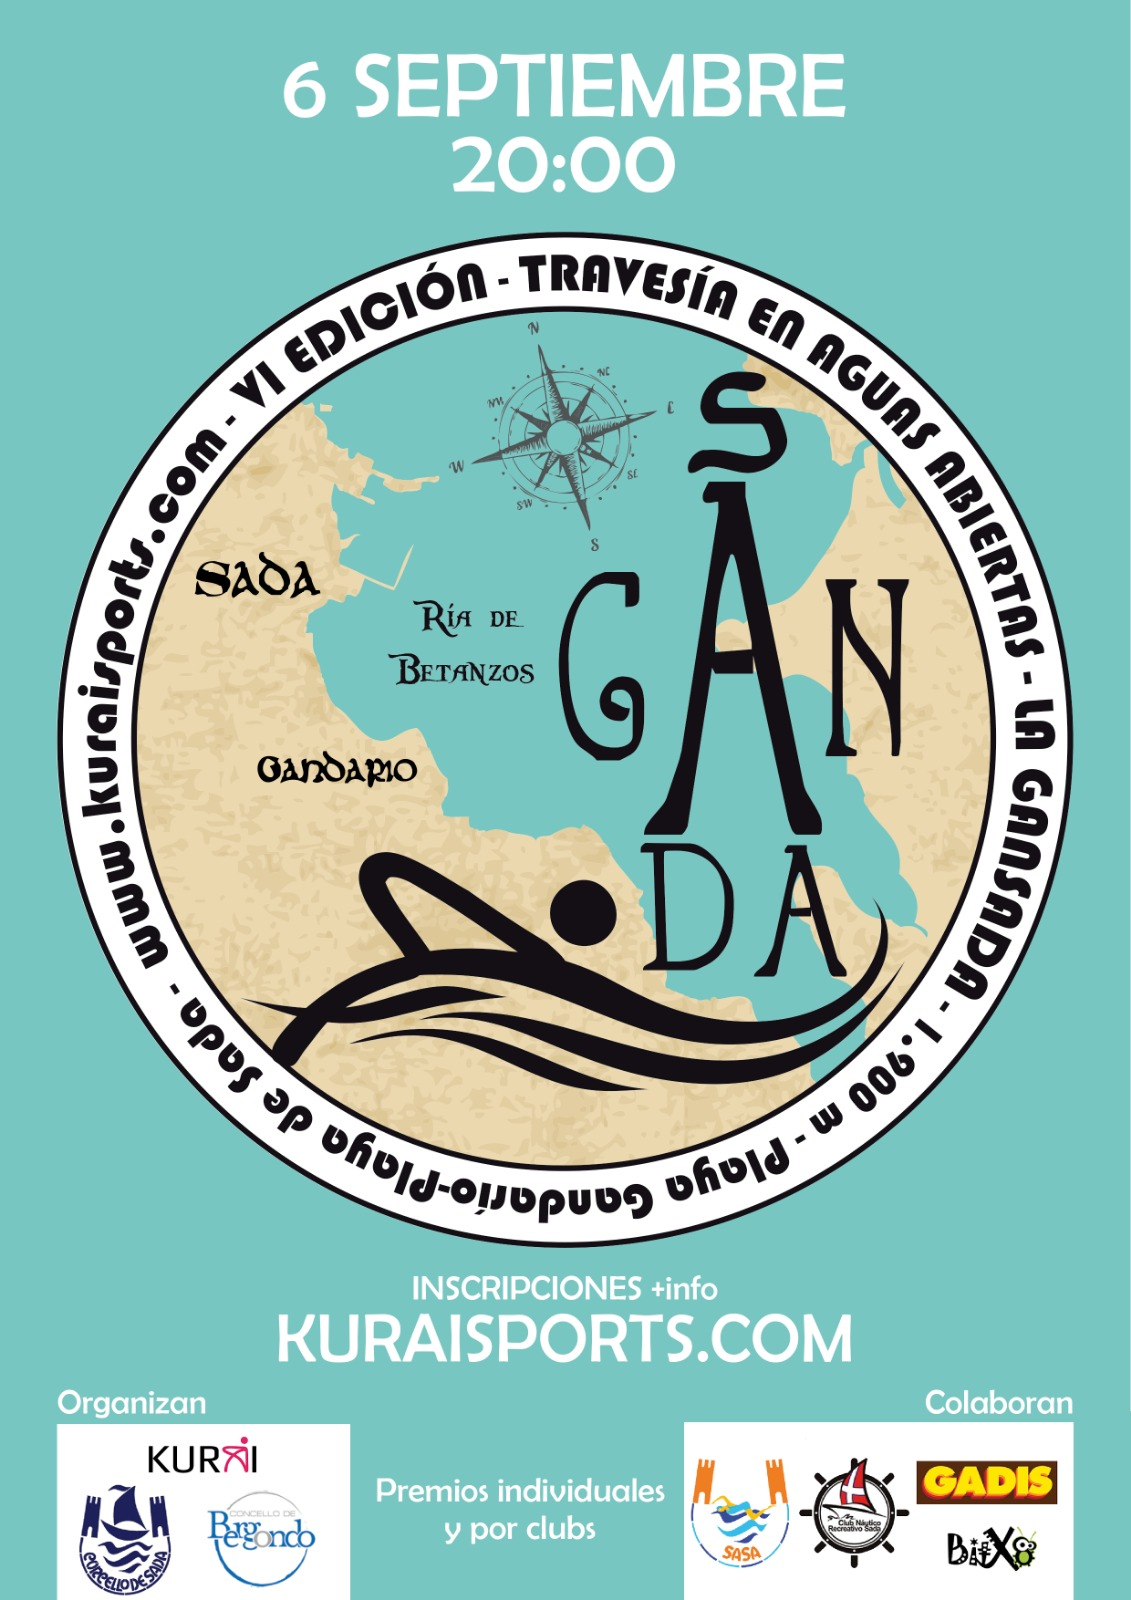
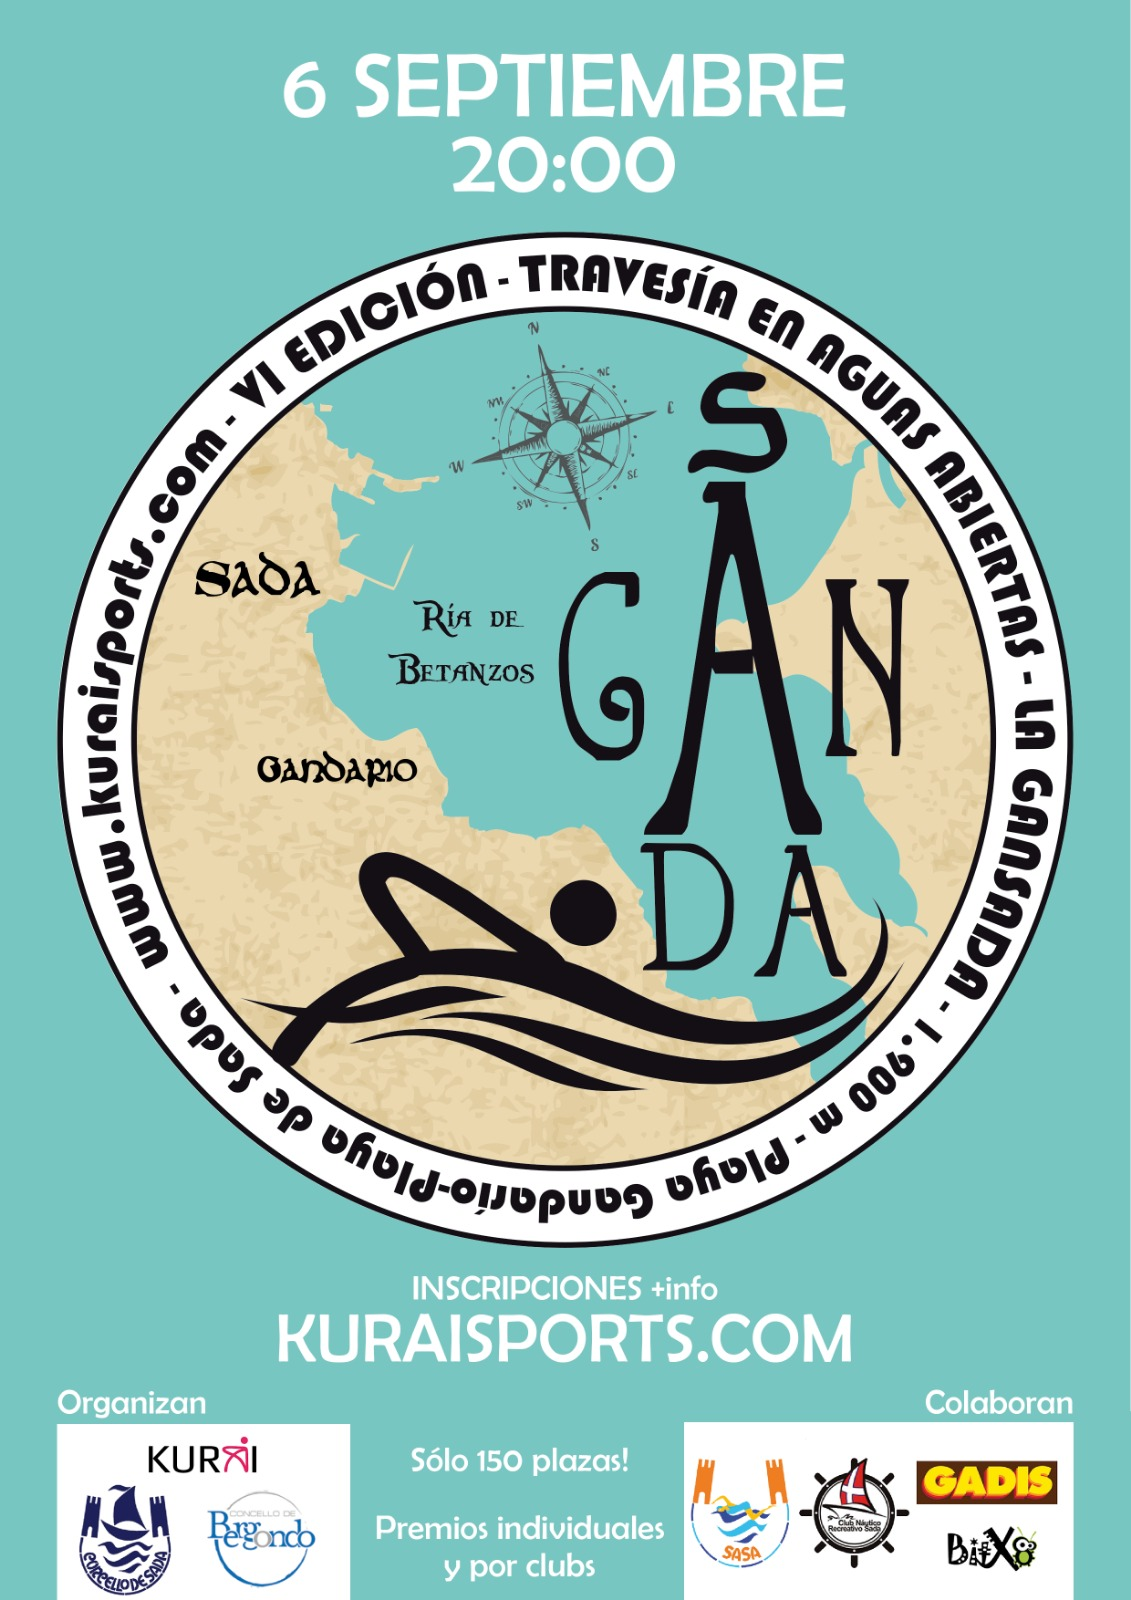
plazas

Changed region(s): [[0.3095, 0.9062, 0.588, 1.0]]

diff --git a/index.html b/index.html
@@ -85,7 +85,7 @@
       </div>
       <div class="col-md-4">
         <h4>Inscripciones</h4>
-        <p>Las inscripciones abriran el 1 de Agosto a las 00:00. Estad atentos que vuelan!!
+        <p>Plazas limitadas a 150!! Las inscripciones abriran el 1 de Agosto a las 00:00. Estad atentos que vuelan!!
         </p>
       </div>
         <div class="col-md-4">
